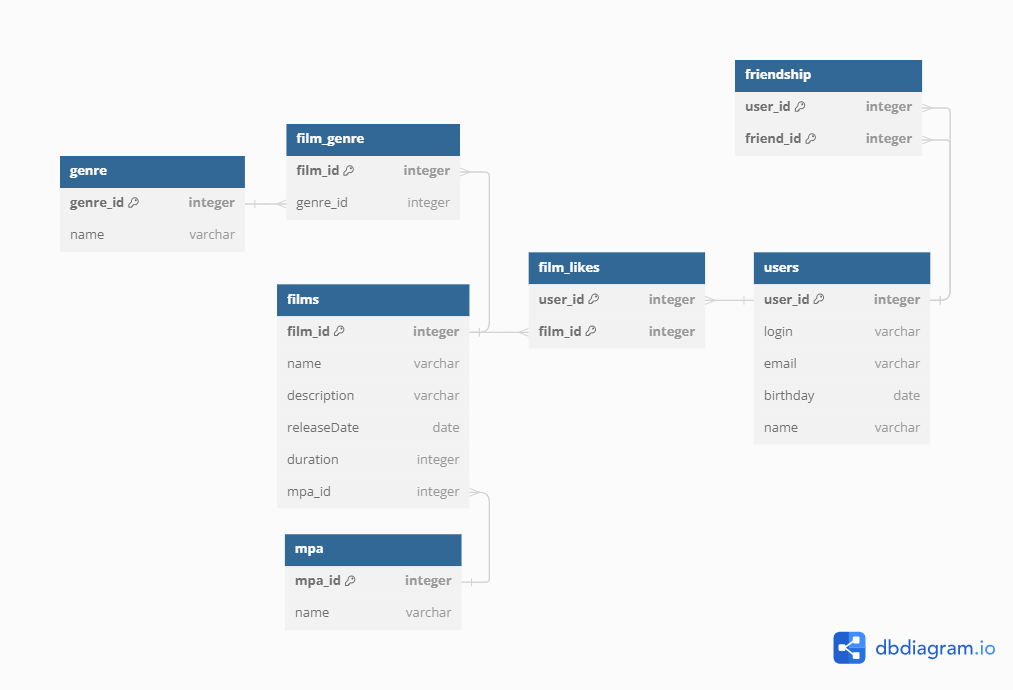
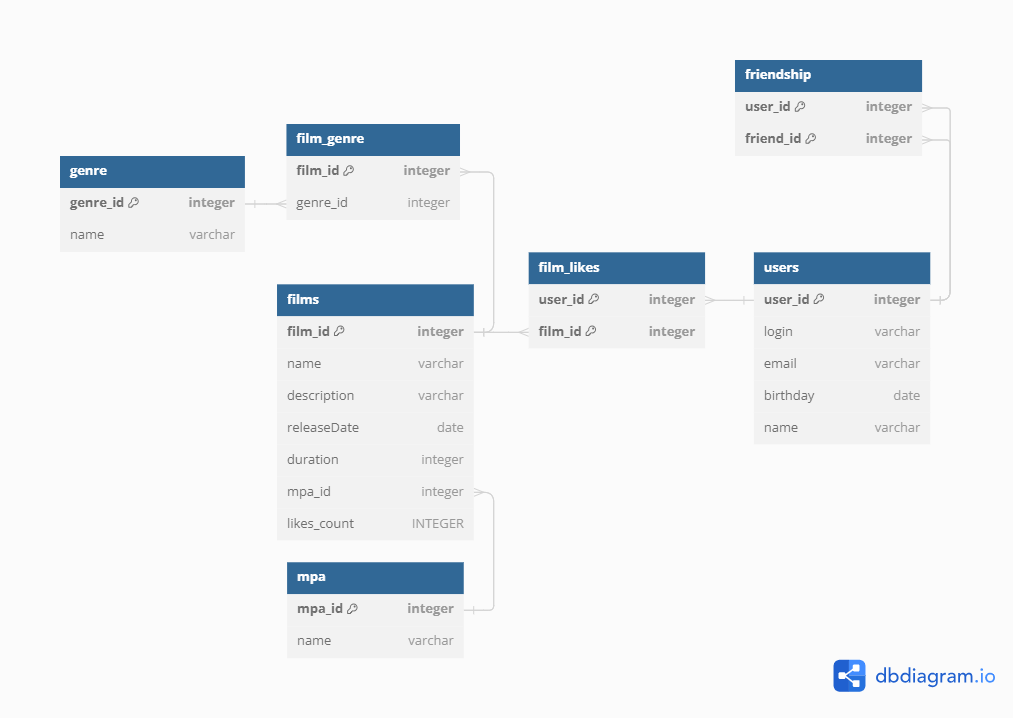
исправить бд и метод обновления

diff --git a/src/main/java/ru/yandex/practicum/filmorate/storage/DAO/FilmDbStorage.java b/src/main/java/ru/yandex/practicum/filmorate/storage/DAO/FilmDbStorage.java
@@ -41,7 +41,7 @@ public class FilmDbStorage implements FilmStorage {
             "FROM films f " +
             "LEFT JOIN mpa m ON f.mpa_id = m.mpa_id " +
             "ORDER BY f.film_id";
-    private static final String UPDATE_FILM_QUERY = "UPDATE films SET name = ?, description = ?, releaseDate = ?, duration = ?, mpa_id = ? " +
+    private static final String UPDATE_FILM_QUERY = "UPDATE films SET name = ?, description = ?, releaseDate = ?, duration = ?, mpa_id = ?, likes_count = ? " +
             "WHERE film_id = ?";
 
     private static final String FIND_BY_ID_QUERY = "SELECT f.*, m.name as mpa_name FROM films f LEFT JOIN mpa m ON f.mpa_id = m.mpa_id WHERE f.film_id = ?";
@@ -106,13 +106,13 @@ public class FilmDbStorage implements FilmStorage {
                 toSqlDate(newFilm.getReleaseDate()),
                 newFilm.getDuration(),
                 newFilm.getMpa().getId(),
+                likesCount,
                 newFilm.getId());
         if (newFilm.getGenres() != null || !newFilm.getGenres().isEmpty()) {
             log.info("добавляем жанры {}", newFilm.getGenres());
             jdbcTemplate.update("DELETE FROM film_genre WHERE film_id = ?", newFilm.getId());
             addGenres(newFilm);
         }
-        jdbcTemplate.update("UPDATE films SET likes_count = ? WHERE film_id = ?", likesCount, newFilm.getId());
         log.info("Обновлен фильм с id = {}", newFilm.getId());
         return newFilm;
     }
